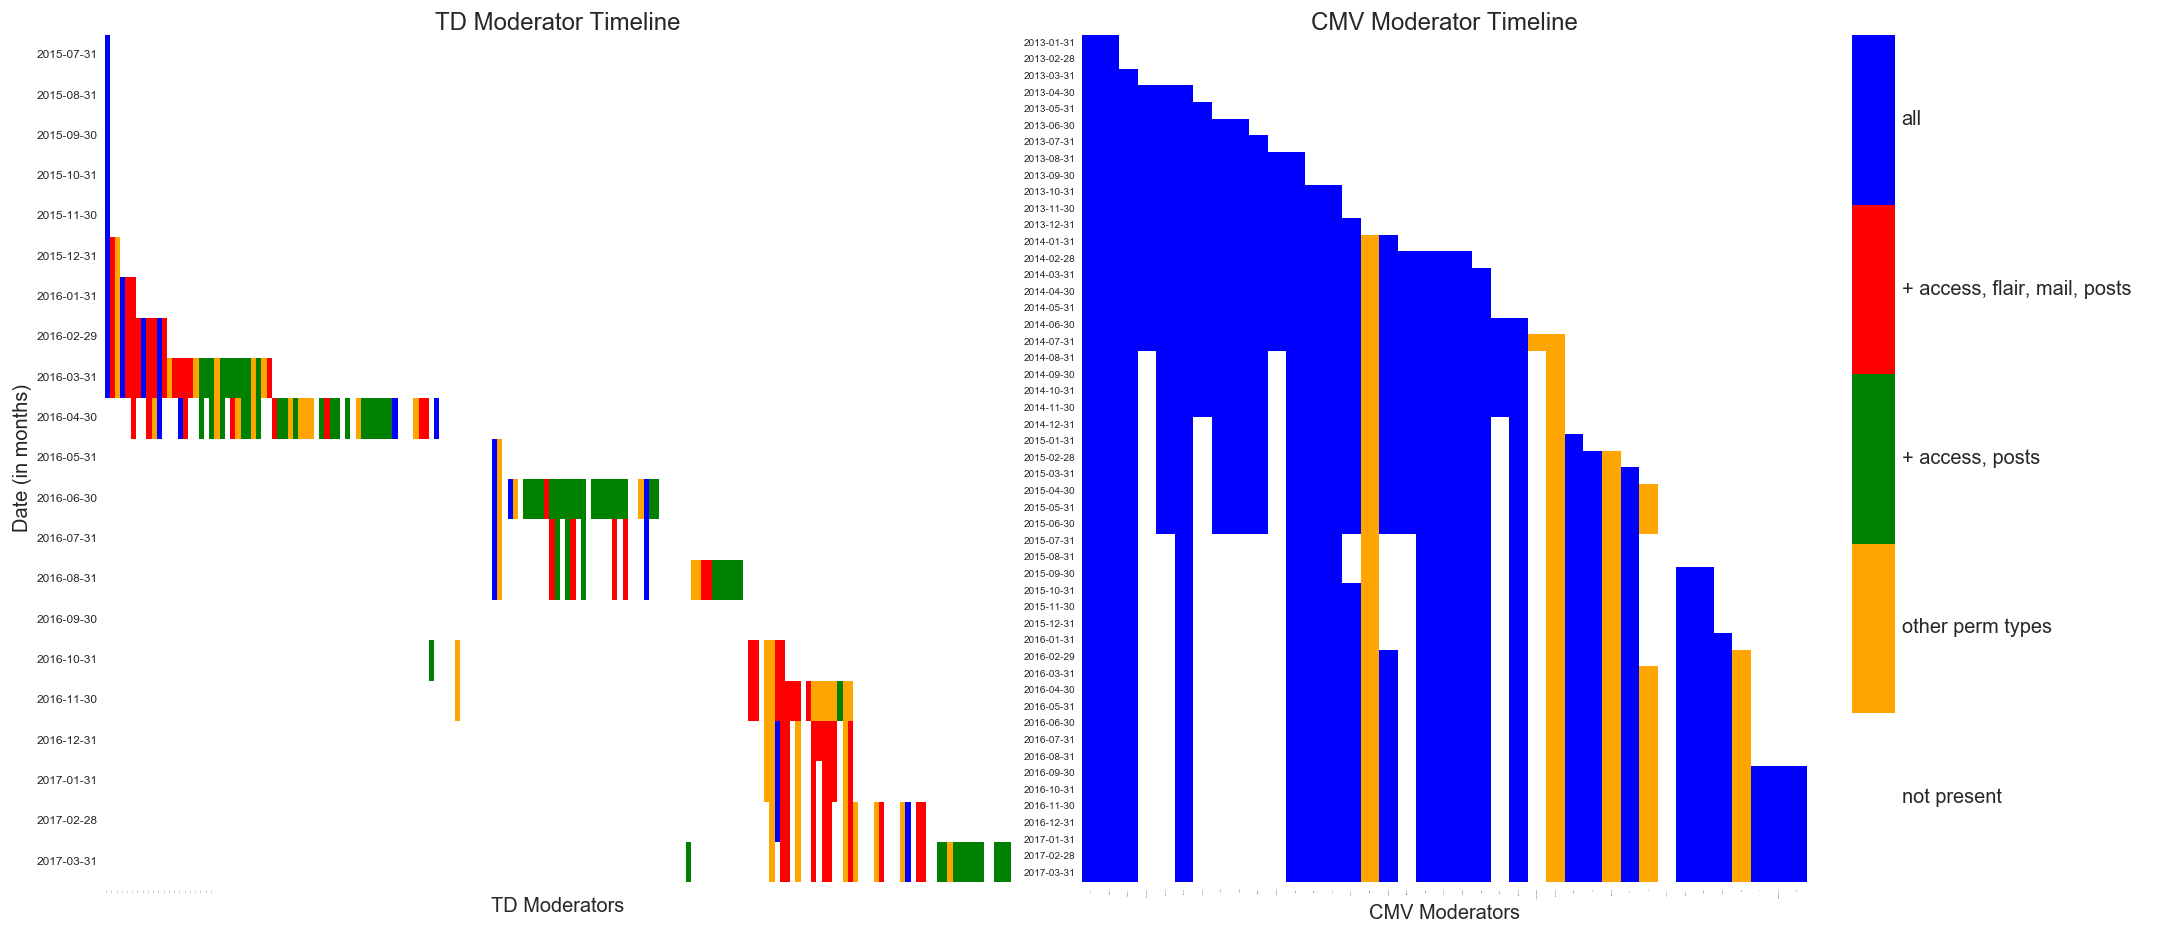
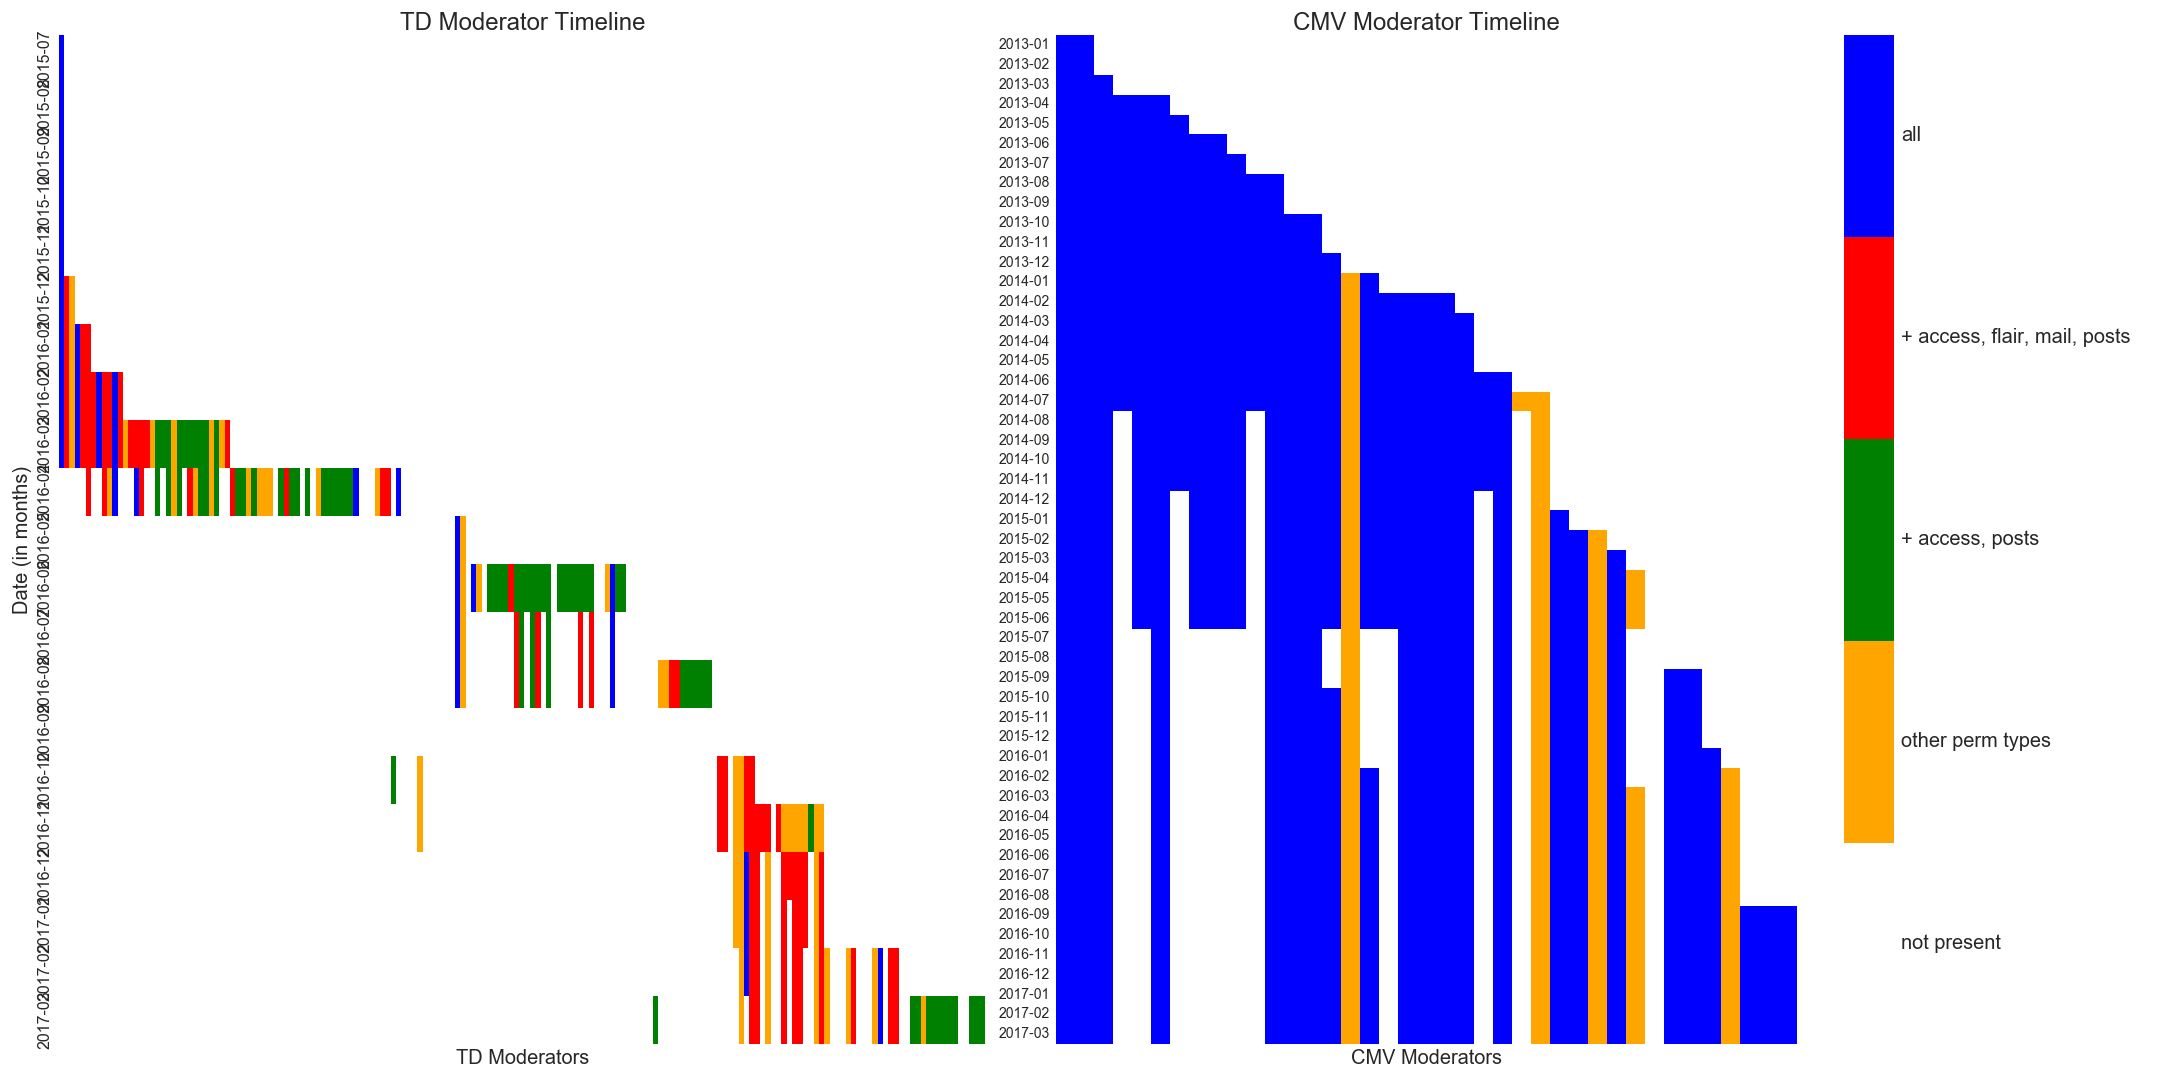
fixing mod timeline axes

diff --git a/scripts/analyse_mod_timeline.py b/scripts/analyse_mod_timeline.py
@@ -8,7 +8,6 @@ Created on Thu Apr  6 15:46:10 2017
 
 import pandas as pd
 from create_mod_timeline import *
-import numpy as np
 import seaborn as sns
 import matplotlib.pyplot as plt 
 from matplotlib.colors import LinearSegmentedColormap
@@ -42,74 +41,23 @@ def td_data():
 def monthly_timeline(df):
     timeline = timeline_df(df)
     months = timeline.resample('M').last()
-    months.index = months.index.map(lambda x: x.date())
+    #months.index = months.index.map(lambda x: x.date())
+    months.index = months.index.map(lambda x: '{}-{:02d}'.format(x.year,x.month))
     return months
 
+## CREATE MONTHLY TIMELINES
+df1 = td_data() 
+months1 = monthly_timeline(df1)
+
+df2 = cmv_data() 
+months2 = monthly_timeline(df2)
+
 ##BETTER COLOURED PLOT
+#set colormap
 colours = ('white','orange','green','red','blue')
 cmap = LinearSegmentedColormap.from_list('Custom',colours, len(colours))
 
-def plot(months, sub='?'):
-    #sub defaults to ? unless name is given to save plot as
-    fig, ax = plt.subplots(figsize=(15,13))
-    ax=sns.heatmap(months, cmap=cmap)
-    colorbar = ax.collections[0].colorbar
-    colorbar.set_ticks([0.4, 1.2, 2, 2.8, 3.6])
-    colorbar.set_ticklabels(['not present', 'other perm types',
-                             '+ access, posts', '+ access, flair, mail, posts',
-                             'all'])
-    plt.title('Timeline of Moderator Presence & Permissions',
-              fontsize=24, fontweight='bold')
-    plt.ylabel('Date (in months)', fontsize=15)
-    plt.xlabel('Moderator', fontsize=15)
-    plt.tick_params(axis='y',which='major', labelsize=12)
-    plt.tick_params(axis='x',which='major', labelsize=0)
-    plt.tight_layout()
-    plt.savefig('/Users/emg/Programming/GitHub/subreddit-visuals/figures/{}-timeline.png'.format(sub))   
-
-## CREATE TD PLOT
-df1 = td_data() 
-months1 = monthly_timeline(df1)
-plot(months, 'td')
-
-## CREATE CMV PLOT
-df2 = cmv_data() 
-months2 = monthly_timeline(df2)
-plot(months, 'cmv')
-
-
-
-## attempting custon legend
-
-#Get artists and labels for legend and chose which ones to display
-handles, labels = ax.get_legend_handles_labels()
-display = (0,1,2)
-
-#Create custom artists
-simArtist = plt.Line2D((0,1),(0,0), color='k', marker='o', linestyle='')
-anyArtist = plt.Line2D((0,1),(0,0), color='k')
-
-#Create legend from custom artist/label lists
-ax.legend([handle for i,handle in enumerate(handles) if i in display]+[simArtist,anyArtist],
-          [label for i,label in enumerate(labels) if i in display]+['Simulation', 'Analytic'])
-
-df1 = td_data() 
-months1 = monthly_timeline(df1)
-months1.index = months1.index.map(lambda x: '{}-{:02d}'.format(x.year,x.month))
-
-df2 = cmv_data() 
-months2 = monthly_timeline(df2)
-
-
-fig, axn = plt.subplots(1, 2, sharex=True, sharey=True)
-#cbar_ax = fig.add_axes([.91, .3, .03, .4])
-for i, ax in enumerate(axn.flat):
-    sns.heatmap(df, ax=ax,
-                cbar=i == 0,
-                vmin=0, vmax=1),
-                cbar_ax=None if i else cbar_ax)
-
-fig, (ax1, ax2) = plt.subplots(1,2, figsize=(30,13))
+fig, (ax1, ax2) = plt.subplots(1,2, figsize=(30,15))
 g1 = sns.heatmap(months1,cmap=cmap,cbar=False,ax=ax1)
 g1.set_ylabel('')
 g1.set_xlabel('')
@@ -124,13 +72,17 @@ colorbar.set_ticklabels(['not present', 'other perm types',
 colorbar.ax.tick_params(labelsize=20)
 ax1.set_title('TD Moderator Timeline', fontsize=24)
 ax2.set_title('CMV Moderator Timeline', fontsize=24)
-ax1.set_xticklabels(list(months1.index.map(lambda x: '{}-{}'.format(x.year,x.month))))
 ax1.set_xlabel('TD Moderators', fontsize=20)
 ax1.set_ylabel('Date (in months)', fontsize=20)
 ax2.set_xlabel('CMV Moderators', fontsize=20)
-ax1.tick_params(axis='y',which='major', labelsize=12)
-ax1.tick_params(axis='x',which='major', labelsize=0)
-ax2.tick_params(axis='y',which='major', labelsize=10)
-ax2.tick_params(axis='x',which='major', labelsize=0)
+#plt.yticks(rotation=90)
+ax1.tick_params(axis='y',which='major', labelsize=14)
+ax1.tick_params(axis='x',which='both', labelbottom='off')
+ax2.tick_params(axis='y',which='major', labelsize=14)
+ax2.tick_params(axis='x',which='both', labelbottom='off')
 plt.tight_layout()
+
+
+
+
 plt.savefig('/Users/emg/Programming/GitHub/subreddit-visuals/figures/joint-timelines.png')
